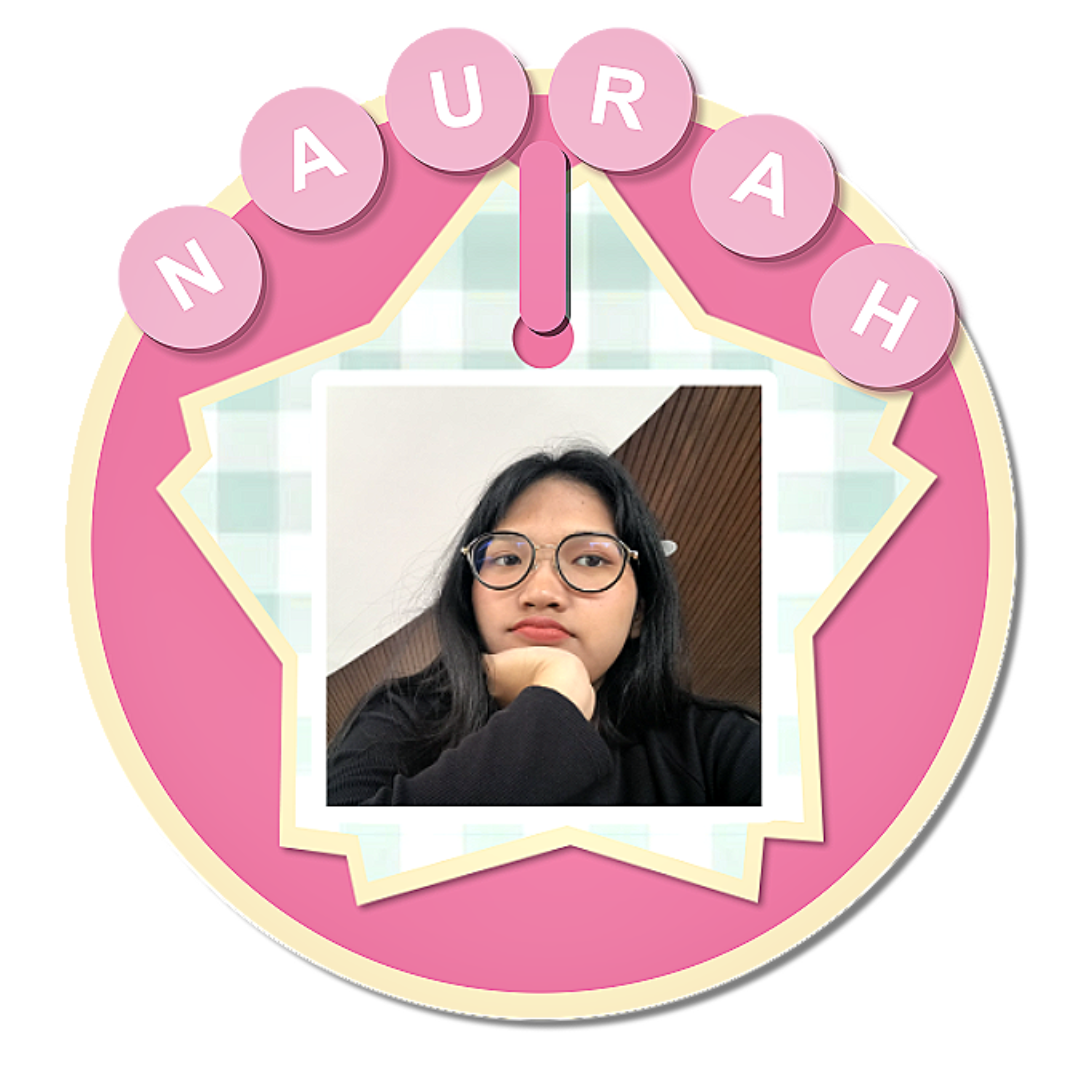
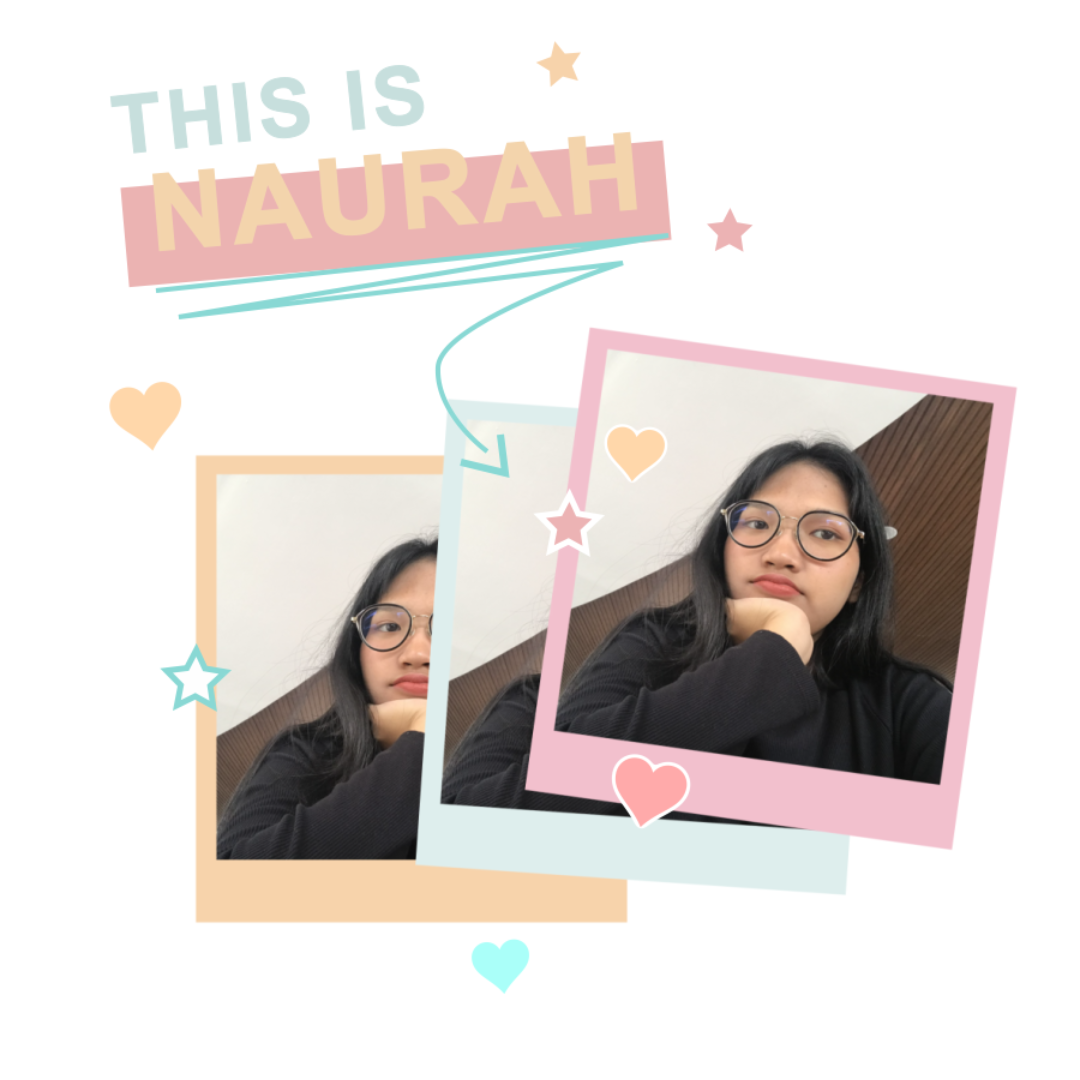
changing photo

diff --git a/static/css/style.css b/static/css/style.css
@@ -13,7 +13,6 @@ h1, h2, h3, .brand {
     font-family: "Lexend", -apple-system, sans-serif;
 }
 
-
 :root {
     --ink: #1c1917;
     --paper: #faf6f0;
@@ -33,9 +32,9 @@ body {
     background-color: var(--paper);
     line-height: 1.6;
     overflow-x: hidden;
-    
 }
- /* efek LOPE LOPE -------------------------------------------------------------------------------------------*/
+
+/* efek LOPE LOPE ------------------------------------------------------------------------------------------- */
 .floating-decor {
     position: fixed;
     inset: 0;
@@ -80,17 +79,13 @@ body {
     }
 }
 
-h1, h2, h3, .brand {
-    font-family: "Lexend", -apple-system, sans-serif;
-}
-
 .container {
     width: 90%;
     max-width: 1000px;
     margin: 0 auto;
 }
 
-/*  Header / Navbar ---------------------------------------------------------------------------------------  */
+/* Header / Navbar --------------------------------------------------------------------------------------- */
 .site-header {
     padding: 1rem 0;
     background-color: #f5a3b8;
@@ -98,6 +93,7 @@ h1, h2, h3, .brand {
         90deg, #f5a3b8, #f5a3b8 40px, #f291a9 40px, #f291a9 80px
     );
 }
+
 .navbar {
     width: 92%;
     max-width: 700px;
@@ -130,10 +126,13 @@ h1, h2, h3, .brand {
     color: #ffffff;
 }
 
-/*  PROFILE ------------------------------------------------------------------------------------------------------------- */
-
+/* PROFILE ------------------------------------------------------------------------------------------------- */
 .hero {
     padding: 3rem 0 4rem;
+    background-color: #f5a3b8;
+    background-image: repeating-linear-gradient(
+        90deg, #f5a3b8, #f5a3b8 40px, #f291a9 40px, #f291a9 80px
+    );
 }
 
 .hero-grid {
@@ -147,9 +146,10 @@ h1, h2, h3, .brand {
 .hero-photo {
     flex-shrink: 0;
 }
+
 .foto {
     width: 65vw;
-    max-width: 320px;
+    max-width: 340px;
     aspect-ratio: 1 / 1;
     display: block;
     object-fit: contain;
@@ -157,8 +157,8 @@ h1, h2, h3, .brand {
     border: none;
     box-shadow: none;
     transition: transform 0.3s ease;
-   
 }
+
 .foto:hover {
     transform: scale(1.05);
 }
@@ -192,16 +192,15 @@ h1, h2, h3, .brand {
 .bio {
     position: relative;
     color: var(--maroon);
-    text-shadow: 1px 1px 2px rgba(0, 0, 0, 0.15);
     background-color: #fffaf5;
     border: 2px dashed var(--teal);
     border-radius: 12px;
     padding: 1.25rem;
     box-shadow: 4px 4px 0px rgba(169, 68, 42, 0.25);
     font-family: "Lexend", sans-serif;
+    font-weight: 700;
     text-align: justify;
     margin-bottom: 1.5rem;
-    transform: rotate(-1deg);
 }
 
 .bio::before {
@@ -266,9 +265,8 @@ h1, h2, h3, .brand {
     color: #ffffff;
 }
 
-/* CARD DIBAGIAN SKILL PROJECT EXPRIENCE------------------------------------------------------------------------------------ */
-
-.hero, .skills, .projects, .experience {
+/* SKILLS ------------------------------------------------------------------------------------------------- */
+.skills {
     padding: 3.5rem 0;
     background-color: #f5a3b8;
     background-image: repeating-linear-gradient(
@@ -276,15 +274,13 @@ h1, h2, h3, .brand {
     );
 }
 
-.skills h2, .projects h2, .experience h2 {
+.skills h2 {
     font-size: 1.8rem;
     margin-bottom: 2rem;
     text-align: center;
     color: var(--maroon);
-    text-shadow: none;
 }
 
-/* ---------------- Skills ---------------- */
 .skills-grid {
     display: grid;
     grid-template-columns: 1fr;
@@ -306,6 +302,7 @@ h1, h2, h3, .brand {
 .skill-card:hover {
     transform: translateY(-4px);
 }
+
 .skill-card::before {
     content: "";
     position: absolute;
@@ -327,11 +324,9 @@ h1, h2, h3, .brand {
     margin-bottom: 1.25rem;
 }
 
-
 .skill-emoji {
     font-size: 1.5rem;
 }
-
 
 .skill-card h3 {
     color: var(--maroon);
@@ -360,60 +355,7 @@ h1, h2, h3, .brand {
     font-size: 0.9rem;
 }
 
-/* Project & Experience cards --------------------------------------------------------------------------------------------- */
-.projects-grid, .experience-grid {
-    display: grid;
-    grid-template-columns: 1fr;
-    gap: 2rem;
-    max-width: 500px;
-    margin: 0 auto;
-}
-
-.project-card {
-    background-color: #fffaf5;
-    border-radius: 16px;
-    overflow: hidden;
-    border: 3px solid var(--card-accent, var(--teal));
-    box-shadow: 5px 5px 0px rgba(0,0,0,0.12);
-}
-.project-card:hover {
-    transform: translateY(-5px);
-}
-
-.card-green { --card-accent: #7fb88a; }
-.card-pink  { --card-accent: #e39ab8; }
-.card-blue  { --card-accent: #7c96d1; }
-.card-dark  { --card-accent: #4a3f5e; }
-
-.project-preview {
-    width: 100%;
-    aspect-ratio: 3 / 2;
-    overflow: hidden;
-}
-
-.project-preview img {
-    width: 100%;
-    height: 100%;
-    object-fit: cover;
-    display: block;
-}
-
-.project-body {
-    padding: 1.25rem 1.5rem 1.5rem;
-}
-
-.project-body h3 {
-    color: var(--maroon);
-    font-size: 1.05rem;
-    margin-bottom: 0.4rem;
-}
-
-.project-body p {
-    color: #6b6459;
-    font-size: 0.9rem;
-    margin-bottom: 1.1rem;
-}
-
+/* Shared: buttons used on Projects (static-free) page ---------------------------------------------------- */
 .project-links {
     display: flex;
     gap: 0.75rem;
@@ -437,11 +379,12 @@ h1, h2, h3, .brand {
     background-color: #d16c85;
     color: #ffffff;
 }
+
 .pill-btn:hover {
     transform: translateY(-2px);
 }
 
-/*  FOOTER FOOTER FOOTER FOOTER  */
+/* FOOTER ---------------------------------------------------------------------------------------------------- */
 .site-footer {
     padding: 1.5rem;
     color: var(--maroon);
@@ -452,7 +395,7 @@ h1, h2, h3, .brand {
     font-family: "Lexend", sans-serif;
 }
 
-/* Responsive versi 700px */
+/* Responsive versi 700px --------------------------------------------------------------------------------- */
 @media (min-width: 700px) {
     .hero-grid {
         flex-direction: row;
@@ -469,7 +412,6 @@ h1, h2, h3, .brand {
         flex: 1;
         min-width: 0;
     }
- 
 
     .meta-list, .social-links {
         justify-content: flex-start;
@@ -480,36 +422,27 @@ h1, h2, h3, .brand {
         max-width: none;
     }
 
-    .projects-grid {
-        grid-template-columns: repeat(2, 1fr);
-        max-width: none;
-    }
-
-    .experience-grid {
-        grid-template-columns: repeat(3, 1fr);
-        max-width: none;
-    }
-
     .navbar .menu {
         gap: 2.5rem;
     }
-    .skill-card:nth-child(odd), .project-card:nth-child(odd) {
+
+    .skill-card:nth-child(odd) {
         transform: rotate(-1deg);
     }
-    .skill-card:nth-child(even), .project-card:nth-child(even) {
+    .skill-card:nth-child(even) {
         transform: rotate(1deg);
     }
-    .skill-card:hover, .project-card:hover {
+    .skill-card:hover {
         transform: rotate(0deg) translateY(-5px);
     }
 
-      .foto {
+    .foto {
         width: 100%;
-        max-width: 280px;
+        max-width: 340px;
     }
 }
 
-/* RESPONSIVE untuk mode 480px */
+/* RESPONSIVE untuk mode landscape pendek ------------------------------------------------------------------ */
 @media (max-height: 480px) and (orientation: landscape) {
     .hero {
         padding: 1.5rem 0 2rem;
@@ -517,7 +450,6 @@ h1, h2, h3, .brand {
 
     .foto {
         max-width: 140px;
- 
     }
 
     .hero-text h1 {
@@ -530,6 +462,7 @@ h1, h2, h3, .brand {
     }
 }
 
+/* EXPERIENCE PAGE (dinamis) -------------------------------------------------------------------------------- */
 .experience-section {
     padding: 3.5rem 0;
     background-color: #f5a3b8;
@@ -583,6 +516,7 @@ h1, h2, h3, .brand {
     color: var(--maroon);
 }
 
+/* PROJECTS PAGE (dinamis) ------------------------------------------------------------------------------------ */
 .projects-page {
     padding: 3.5rem 0;
     background-color: #f5a3b8;
@@ -612,6 +546,7 @@ h1, h2, h3, .brand {
     display: flex;
     flex-direction: column;
 }
+
 .projects-page-card h2 {
     margin: 0.3rem 0;
     font-size: 1.2rem;
